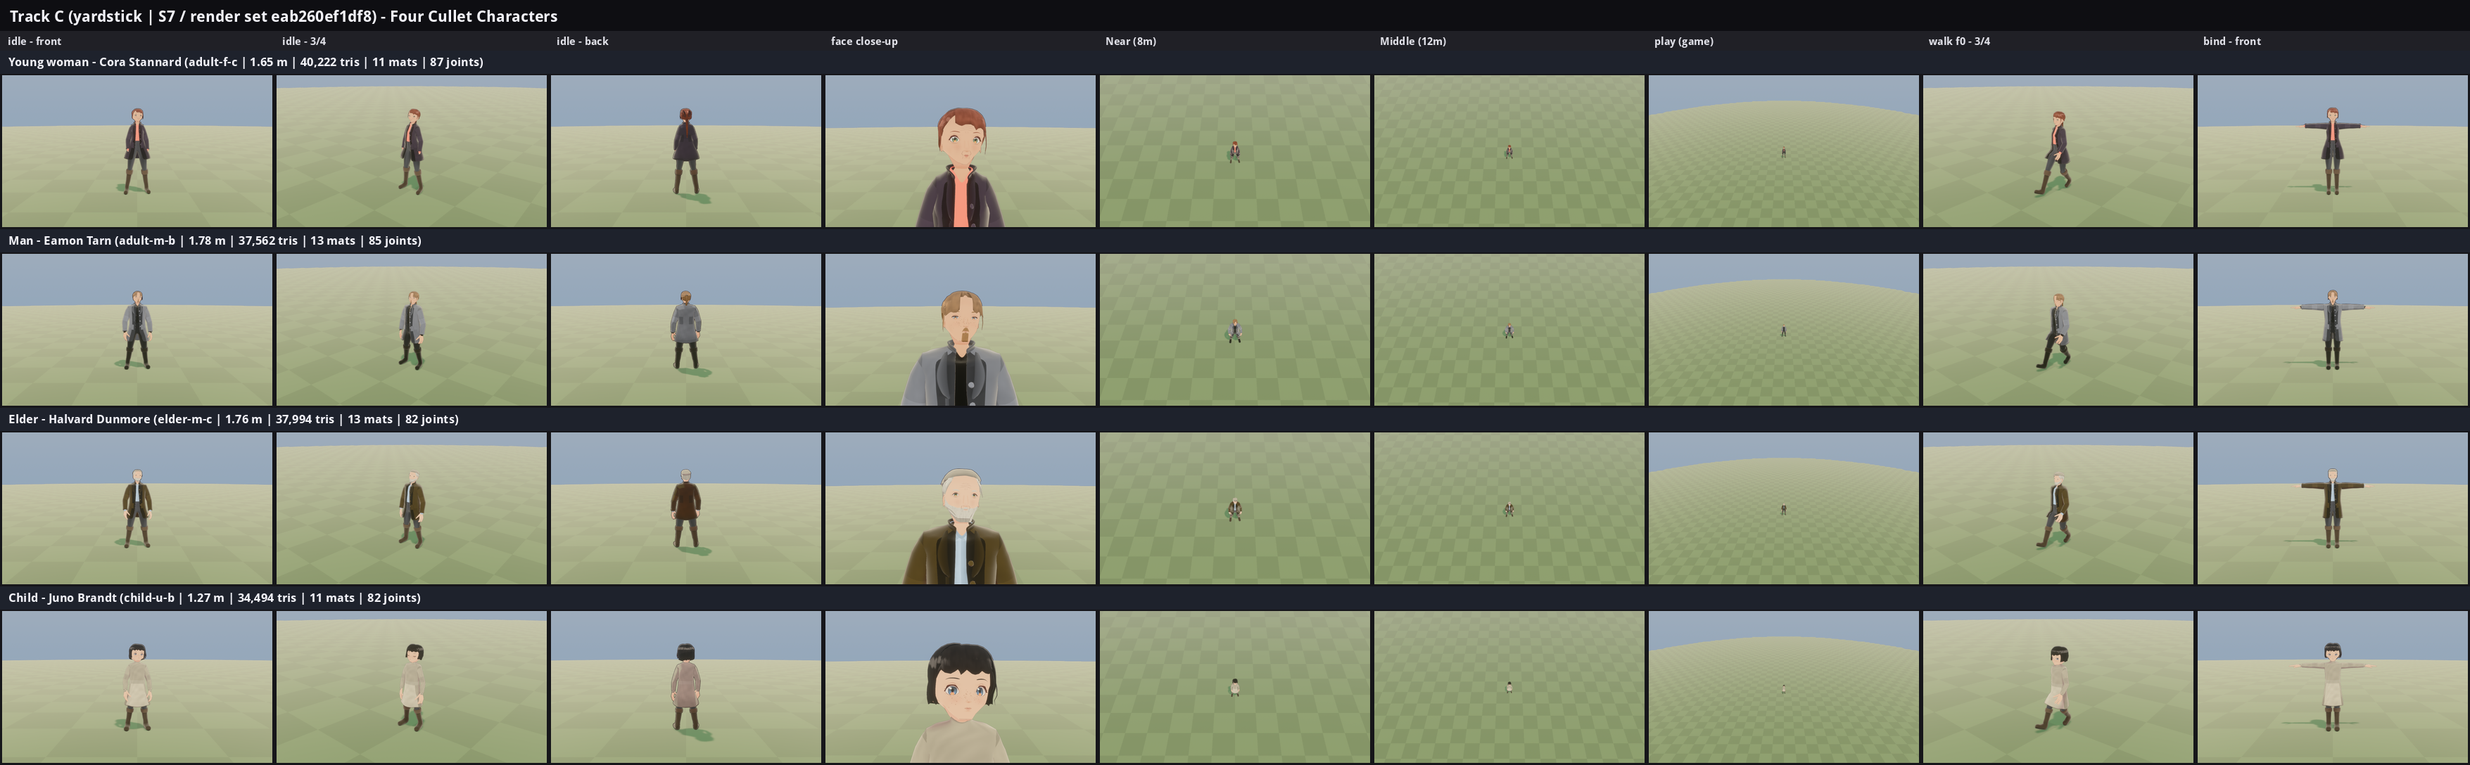
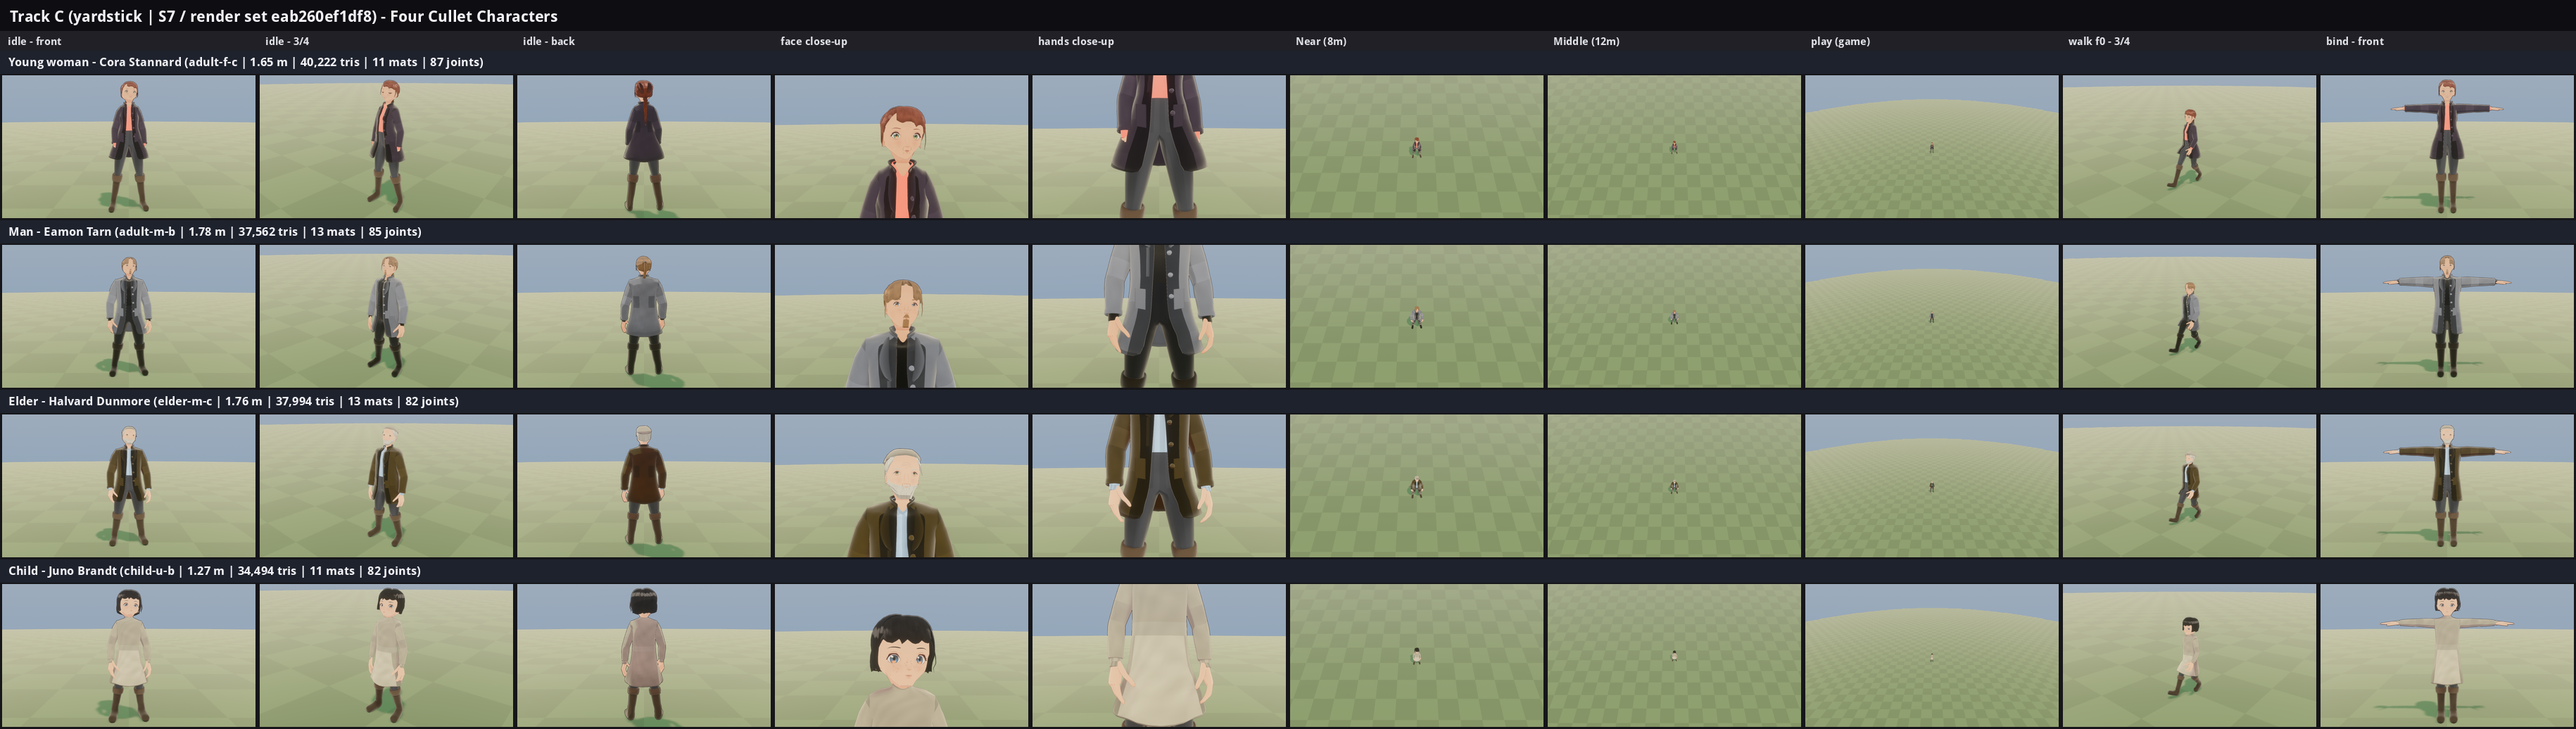
docs(char-bakeoff): tighten full-body framing to 85-90% and add hands close-up
- Frame idle and bind front/three-quarter/back at zoom=0.62, aim=0.50 (~85-90% frame height from 1.27 m child to 1.78 m man)
- Add hands close-up at sides (idle@1.0/0:6:0.26:0.48)
- Clear stale per-model PNGs in shoot.sh on re-run and re-shoot Track C sheets

diff --git a/docs/char-bakeoff/C/README.md b/docs/char-bakeoff/C/README.md
@@ -6,14 +6,14 @@ Track C is the yardstick: today's composed character generator as S7 left it, re
 
 - **[shots.env](shots.env)** (also published to `~/.local/state/bakeoff/shots.env`):
   - `LIVING_GAME_SIZE="1600x900"`, `LIVING_GAME_HOUR="11"`, `LIVING_GAME_DAY_MINUTES="0"`
-  - `LIVING_GAME_VIEW_SHOTS="idle@1.0/front,idle@1.0/three-quarter,idle@1.0/back,idle@1.0/0:8:0.22:0.88,idle@1.0/near@0,idle@1.0/middle@0,idle@1.0/game,walk/three-quarter"`
-  - `LIVING_GAME_VIEW_SHOTS_BIND="front,three-quarter,back"` (second pass with `LIVING_GAME_VIEW_CLIP=bind`, since `living/game/src/view.rs` activates bind pose per-process via `LIVING_GAME_VIEW_CLIP=bind`)
-- **[shoot.sh](shoot.sh)** (also published to `~/.local/state/bakeoff/shoot.sh`): sources `shots.env`, runs both passes through `living/tools/view_assets.sh` under `flock -s ~/.local/state/slop-build/gate.lock` with `CARGO_BUILD_JOBS=8` and a private `CARGO_TARGET_DIR`, merges the per-character stills and `report.json`, and builds one labelled 4×4 contact sheet per character.
+  - `LIVING_GAME_VIEW_SHOTS="idle@1.0/0:8:0.62:0.50,idle@1.0/40:18:0.62:0.50,idle@1.0/180:8:0.62:0.50,idle@1.0/0:8:0.22:0.88,idle@1.0/0:6:0.26:0.48,idle@1.0/near@0,idle@1.0/middle@0,idle@1.0/game,walk/three-quarter"` (full-body front/3/4/back framed at `zoom=0.62, aim=0.50` so every character fills ~85–90% of frame height from head to boots; plus face close-up, hands close-up at sides, Near/Middle/game play stops, and 6-frame walk)
+  - `LIVING_GAME_VIEW_SHOTS_BIND="0:8:0.62:0.50,40:18:0.62:0.50,180:8:0.62:0.50"` (second pass with `LIVING_GAME_VIEW_CLIP=bind`, since `living/game/src/view.rs` activates bind pose per-process via `LIVING_GAME_VIEW_CLIP=bind`)
+- **[shoot.sh](shoot.sh)** (also published to `~/.local/state/bakeoff/shoot.sh`): sources `shots.env`, runs both passes through `living/tools/view_assets.sh` under `flock -s ~/.local/state/slop-build/gate.lock` with `CARGO_BUILD_JOBS=8` and a private `CARGO_TARGET_DIR`, merges the per-character stills and `report.json`, and builds one labelled contact sheet per character (17 shots).
 
 ## Contact sheets
 
-- **[contact-sheet.png](contact-sheet.png)** — all four Cullet characters side-by-side across `idle · front`, `idle · 3/4`, `idle · back`, `face close-up`, `Near (8m)`, `Middle (12m)`, `play (game)`, `walk f0 · 3/4`, and `bind · front`.
-- **[stage1-woman.png](stage1-woman.png)** — full 16-shot Stage-1 comparison of today's base young woman (`adult-f-b`) in the least-dressed plain underlayer the current generator allows.
+- **[contact-sheet.png](contact-sheet.png)** — all four Cullet characters side-by-side across `idle - front`, `idle - 3/4`, `idle - back`, `face close-up`, `hands close-up`, `Near (8m)`, `Middle (12m)`, `play (game)`, `walk f0 - 3/4`, and `bind - front`.
+- **[stage1-woman.png](stage1-woman.png)** — full 17-shot Stage-1 comparison of today's base young woman (`adult-f-b`) in the least-dressed plain underlayer the current generator allows.
 
 ## Source assets
 
